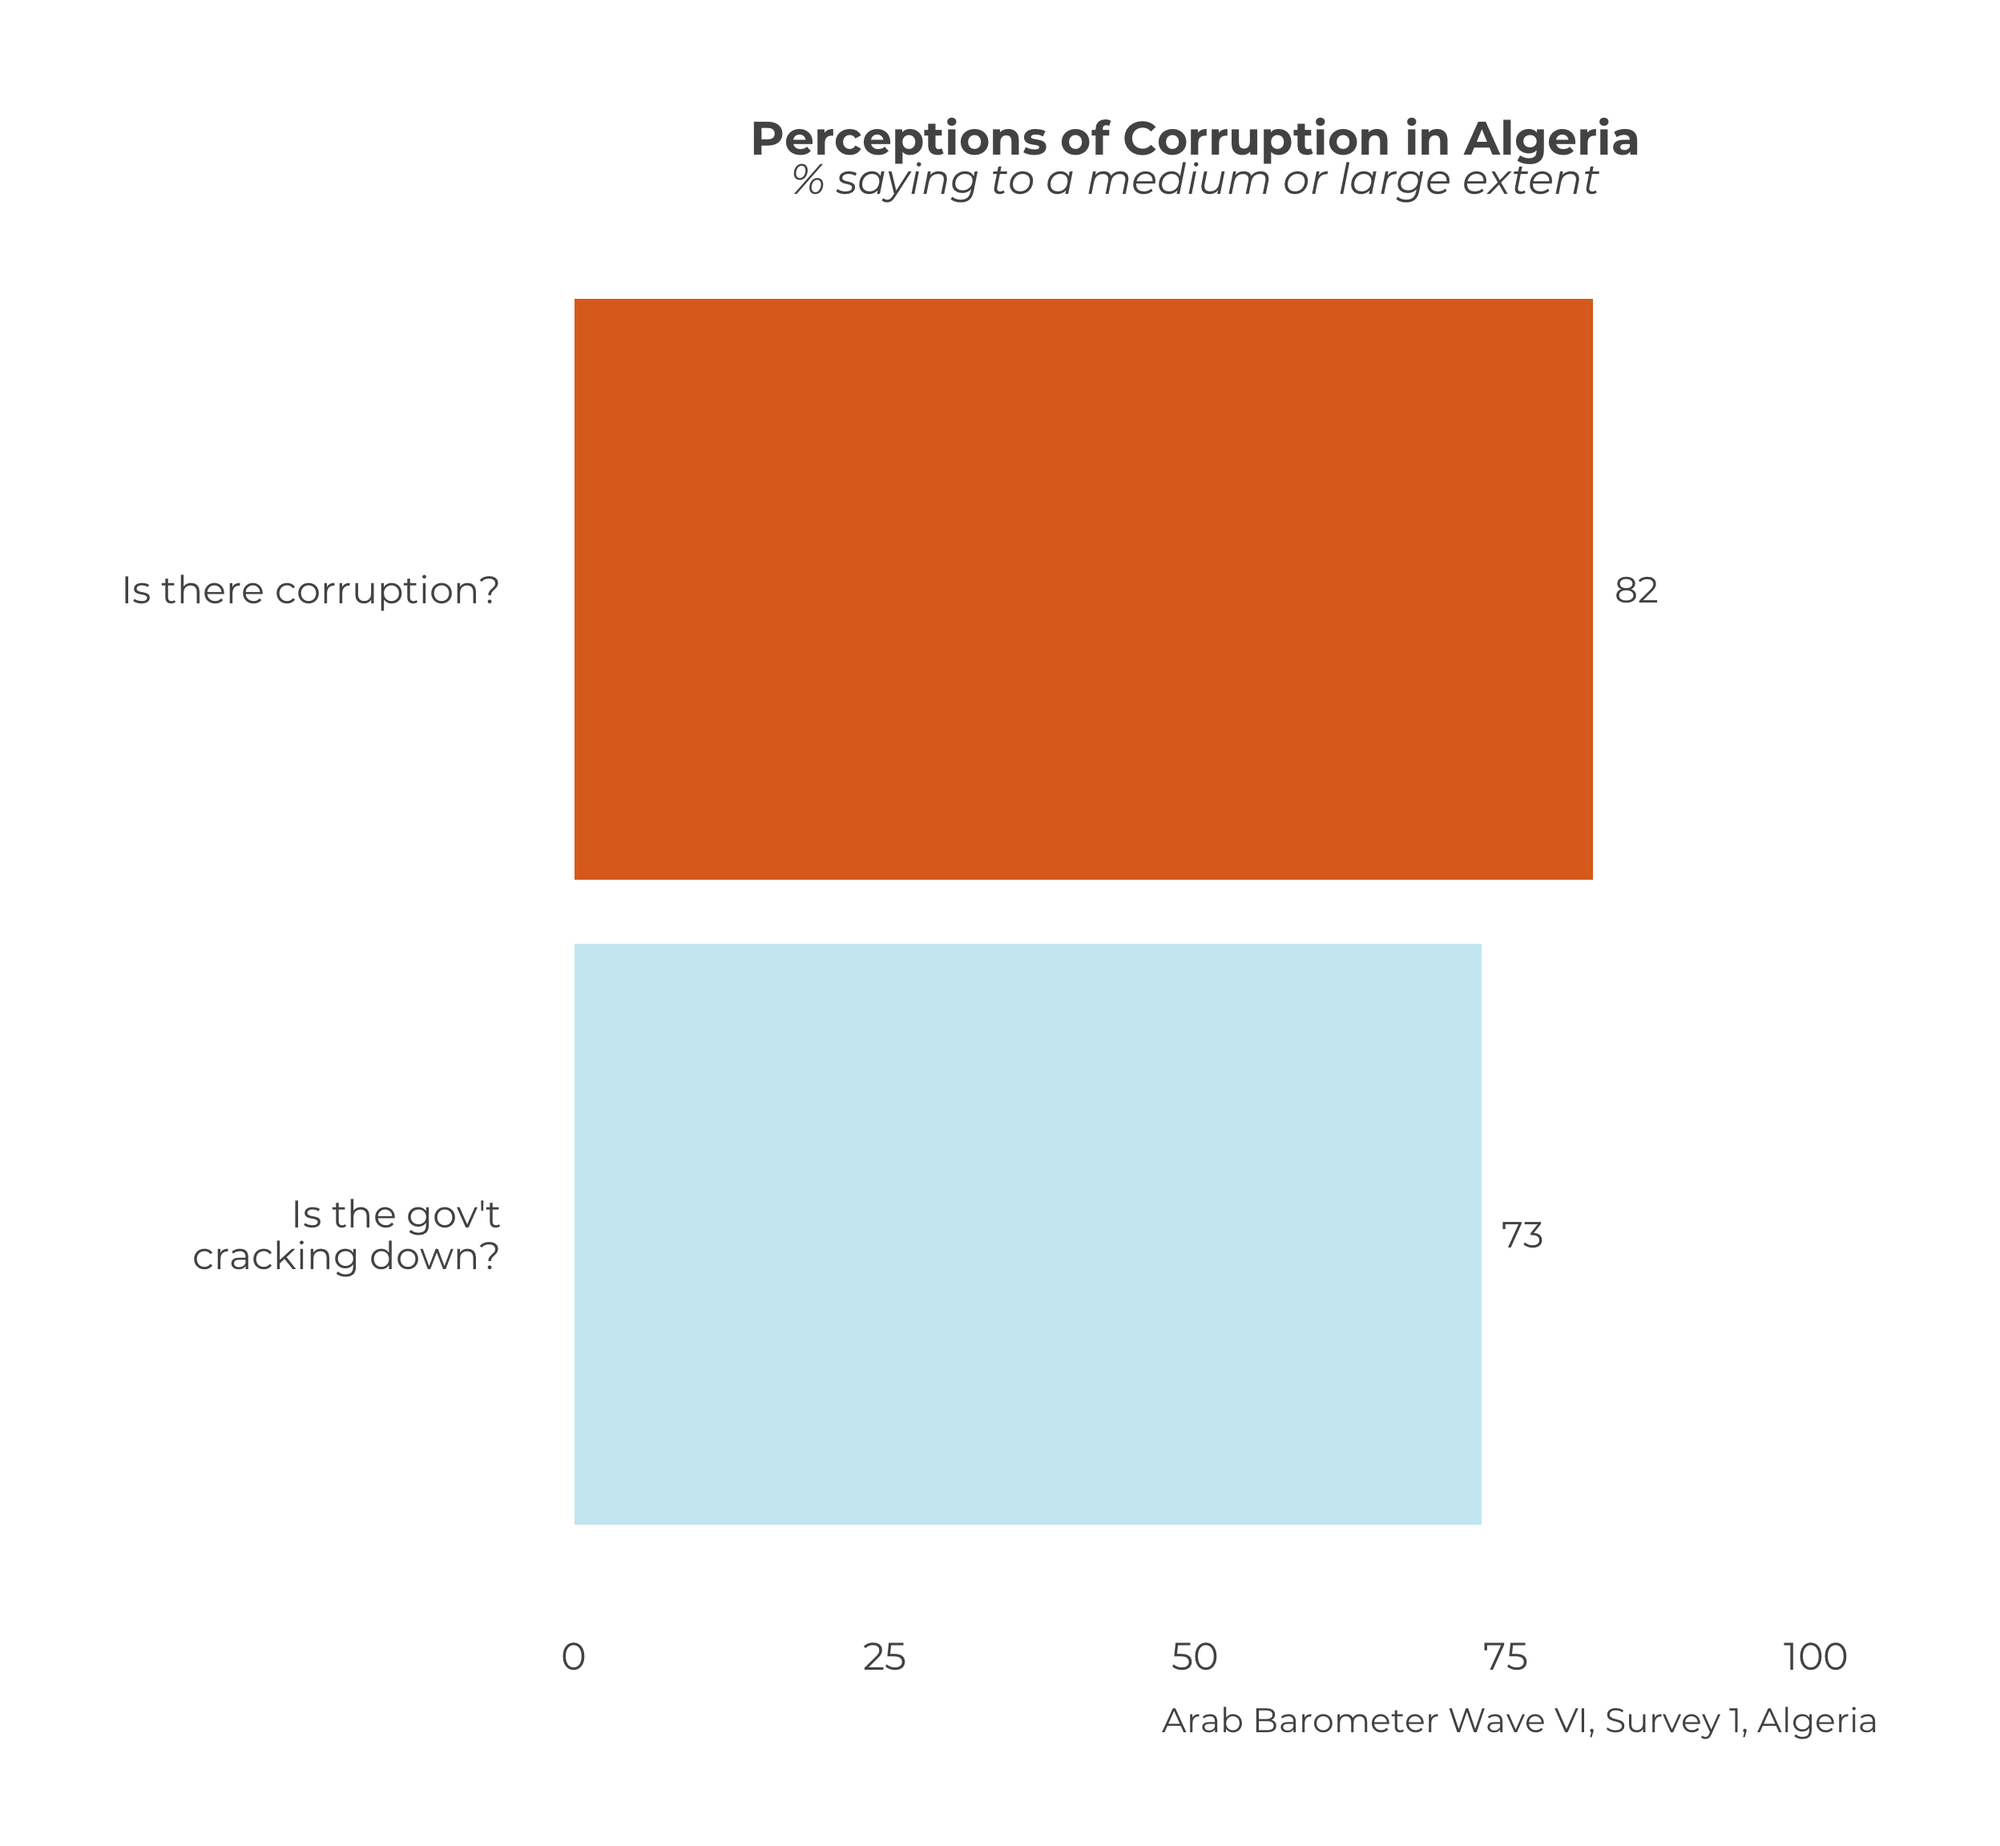
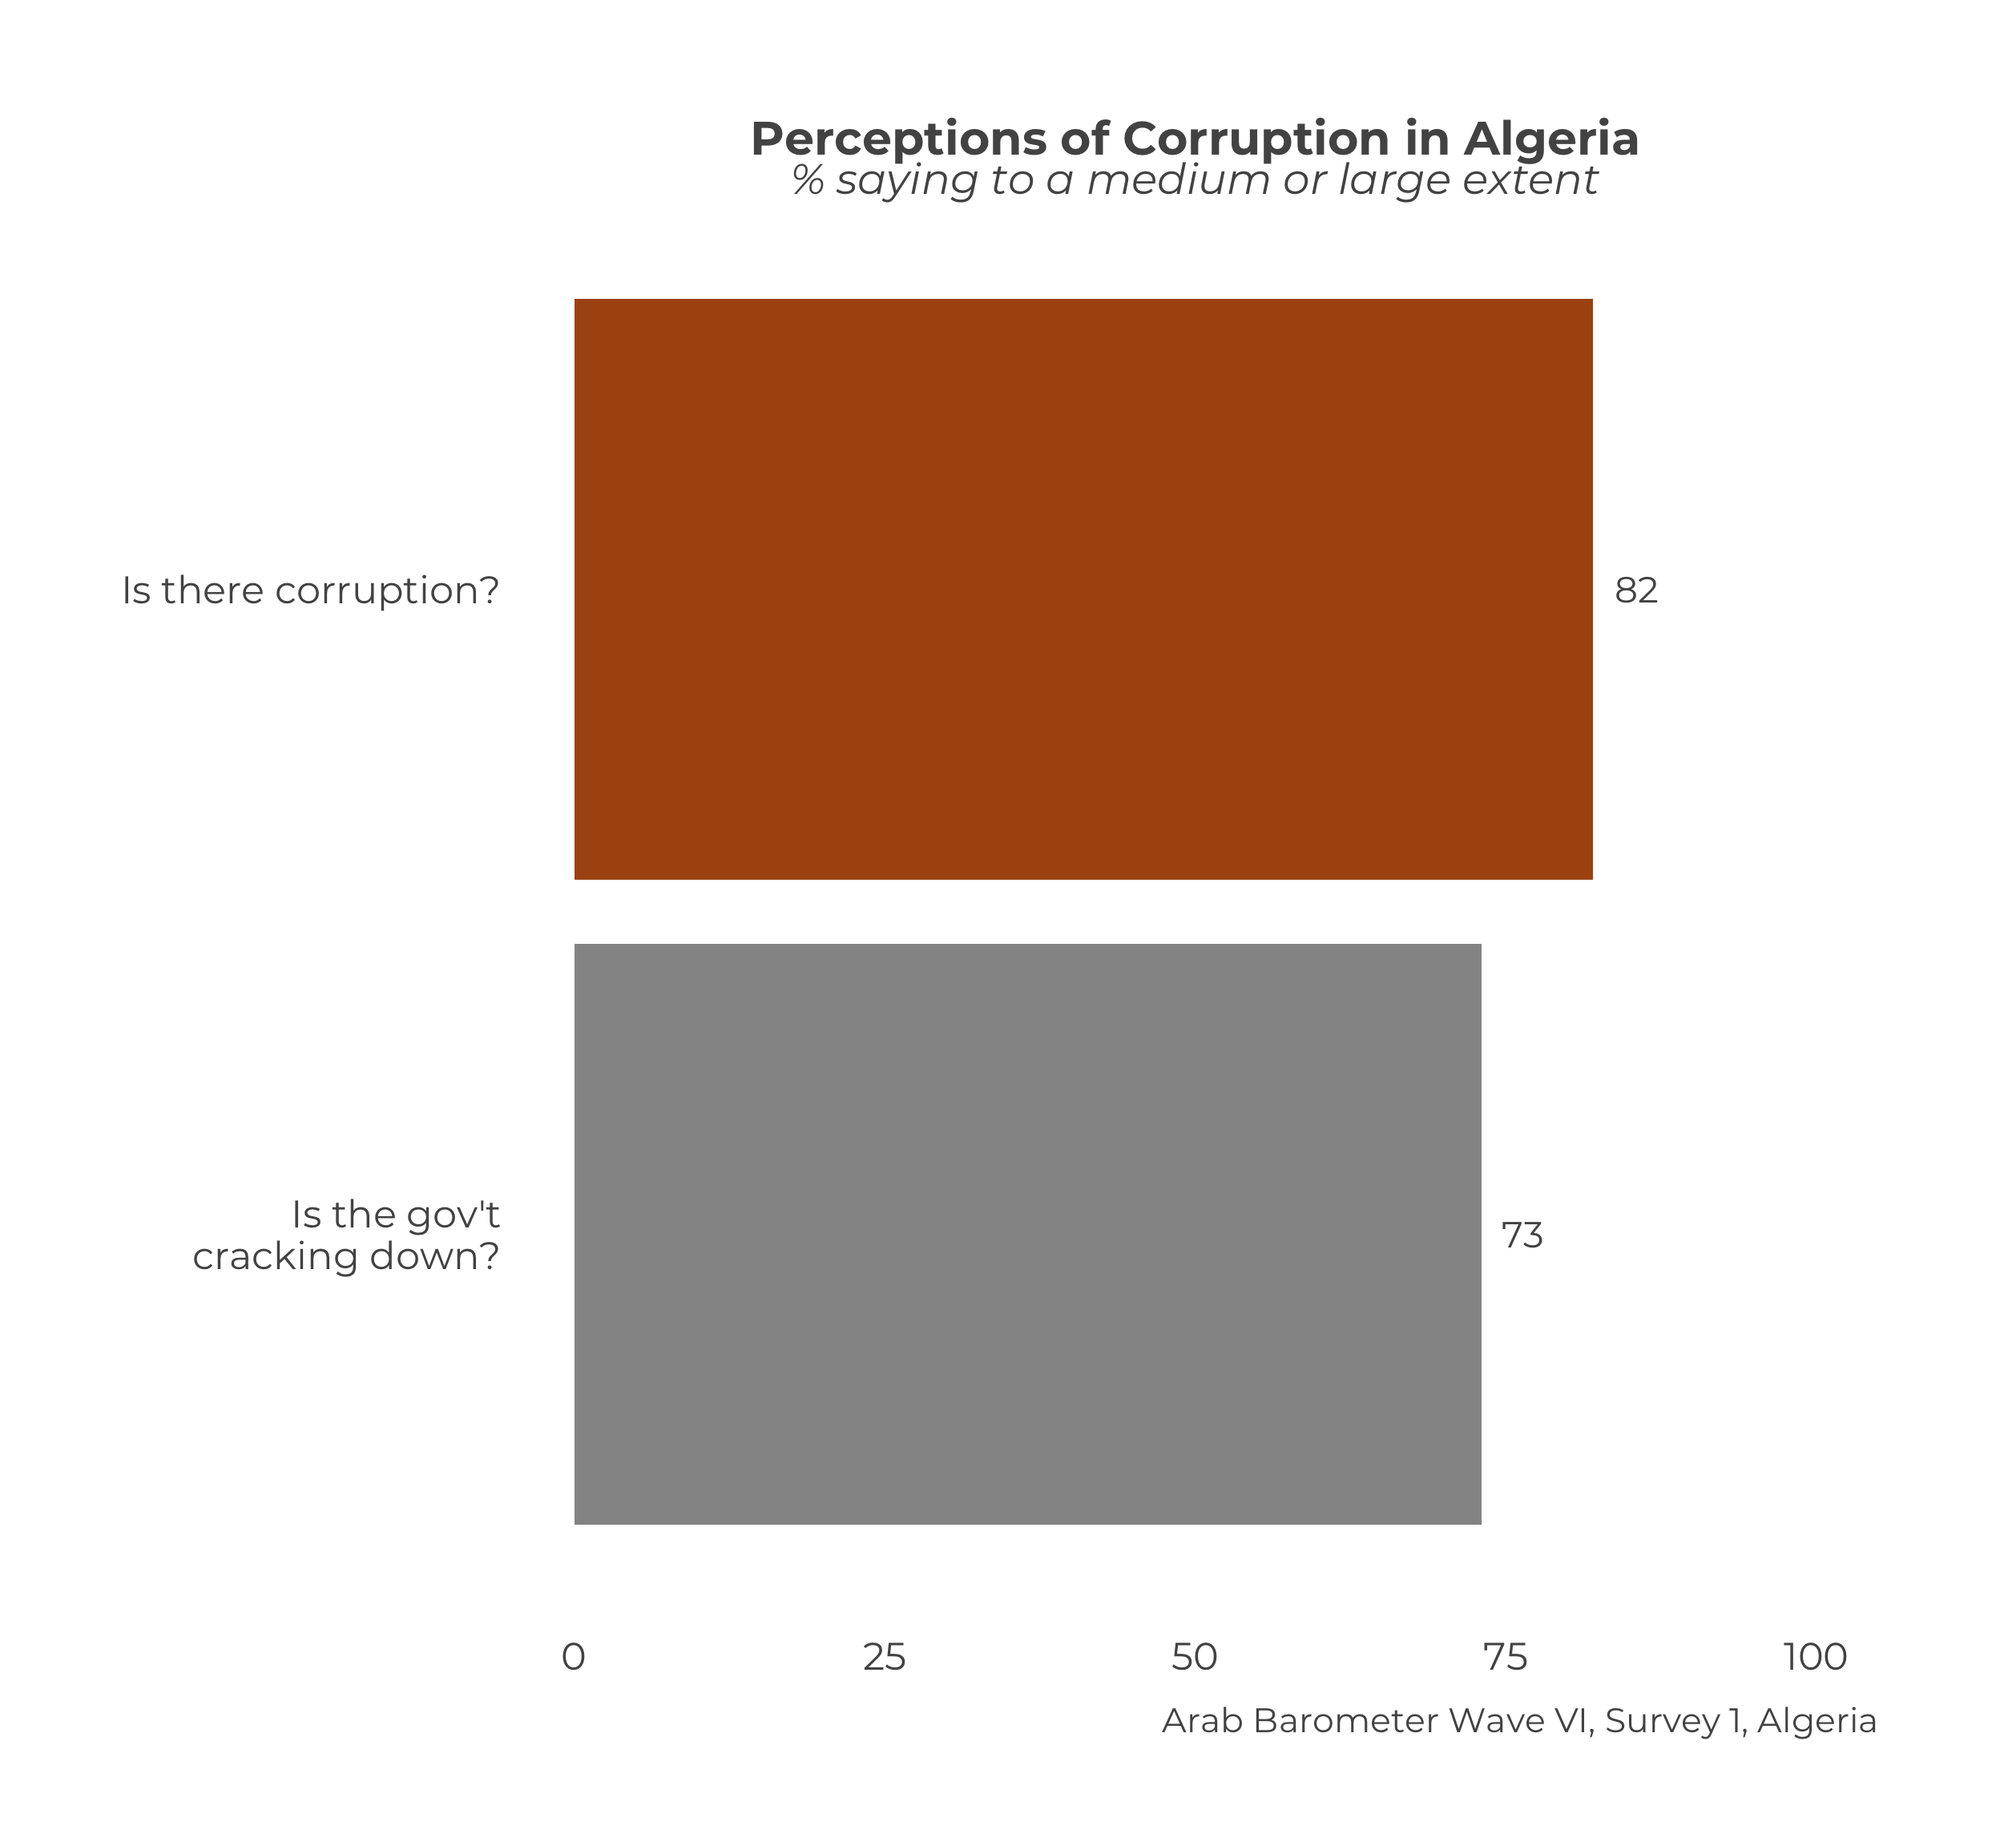
Forgot to compile before I pushed

diff --git a/docs/change-default-colors.html b/docs/change-default-colors.html
@@ -277,9 +277,9 @@ code span.wa { color: #60a0b0; font-weight: bold; font-style: italic; } /* Warni
 <div id="change-color-palette" class="section level2" number="16.2">
 <h2><span class="header-section-number">16.2</span> Change Color Palette</h2>
 <p>The parameter is called <strong><code>.palette</code></strong>.</p>
-<div class="sourceCode" id="cb145"><pre class="sourceCode r"><code class="sourceCode r"><span id="cb145-1"><a href="change-default-colors.html#cb145-1" aria-hidden="true" tabindex="-1"></a><span class="fu">plot_stacked_comp</span>(survey1,</span>
-<span id="cb145-2"><a href="change-default-colors.html#cb145-2" aria-hidden="true" tabindex="-1"></a>                  Q2061A,</span>
-<span id="cb145-3"><a href="change-default-colors.html#cb145-3" aria-hidden="true" tabindex="-1"></a>                  <span class="at">.caption =</span> <span class="st">&quot;Arab Barometer Wave VI, Survey 1&quot;</span>,</span>
+<div class="sourceCode" id="cb145"><pre class="sourceCode r"><code class="sourceCode r"><span id="cb145-1"><a href="change-default-colors.html#cb145-1" aria-hidden="true" tabindex="-1"></a><span class="fu">calculate_stacked_df</span>(survey1,</span>
+<span id="cb145-2"><a href="change-default-colors.html#cb145-2" aria-hidden="true" tabindex="-1"></a>                     Q2061A) <span class="sc">%&gt;%</span></span>
+<span id="cb145-3"><a href="change-default-colors.html#cb145-3" aria-hidden="true" tabindex="-1"></a>  <span class="fu">plot_stacked_comp</span>(<span class="at">.caption =</span> <span class="st">&quot;Arab Barometer Wave VI, Survey 1&quot;</span>,</span>
 <span id="cb145-4"><a href="change-default-colors.html#cb145-4" aria-hidden="true" tabindex="-1"></a>                  <span class="at">.palette =</span> <span class="st">&quot;soft rainbow&quot;</span>)</span></code></pre></div>
 <p><img src="bookdownproj_files/figure-html/How.3.4-Complete-Code-Example-1.png" width="1248" /></p>
 

diff --git a/docs/coming-soon-stacked-plots.html b/docs/coming-soon-stacked-plots.html
@@ -266,9 +266,9 @@ code span.wa { color: #60a0b0; font-weight: bold; font-style: italic; } /* Warni
 <div id="coming-soon-stacked-plots" class="section level1" number="13">
 <h1><span class="header-section-number">Chapter 13</span> COMING SOON: Stacked Plots</h1>
 <p>At the end, your code will look like the following:</p>
-<div class="sourceCode" id="cb138"><pre class="sourceCode r"><code class="sourceCode r"><span id="cb138-1"><a href="coming-soon-stacked-plots.html#cb138-1" aria-hidden="true" tabindex="-1"></a><span class="fu">plot_stacked_comp</span>(survey1,</span>
-<span id="cb138-2"><a href="coming-soon-stacked-plots.html#cb138-2" aria-hidden="true" tabindex="-1"></a>                  Q2061A,</span>
-<span id="cb138-3"><a href="coming-soon-stacked-plots.html#cb138-3" aria-hidden="true" tabindex="-1"></a>                  <span class="at">.caption =</span> <span class="st">&quot;Arab Barometer Wave VI, Survey 1&quot;</span>)</span></code></pre></div>
+<div class="sourceCode" id="cb138"><pre class="sourceCode r"><code class="sourceCode r"><span id="cb138-1"><a href="coming-soon-stacked-plots.html#cb138-1" aria-hidden="true" tabindex="-1"></a><span class="fu">calculate_stacked_df</span>(survey1,</span>
+<span id="cb138-2"><a href="coming-soon-stacked-plots.html#cb138-2" aria-hidden="true" tabindex="-1"></a>                     Q2061A) <span class="sc">%&gt;%</span></span>
+<span id="cb138-3"><a href="coming-soon-stacked-plots.html#cb138-3" aria-hidden="true" tabindex="-1"></a>  <span class="fu">plot_stacked_comp</span>(<span class="at">.caption =</span> <span class="st">&quot;Arab Barometer Wave VI, Survey 1&quot;</span>)</span></code></pre></div>
 <p>That code will produce the following graph:</p>
 <p><img src="bookdownproj_files/figure-html/13.2-Complete-Graph-Example-1.png" width="1248" /></p>
 <p>Let’s go!</p>
